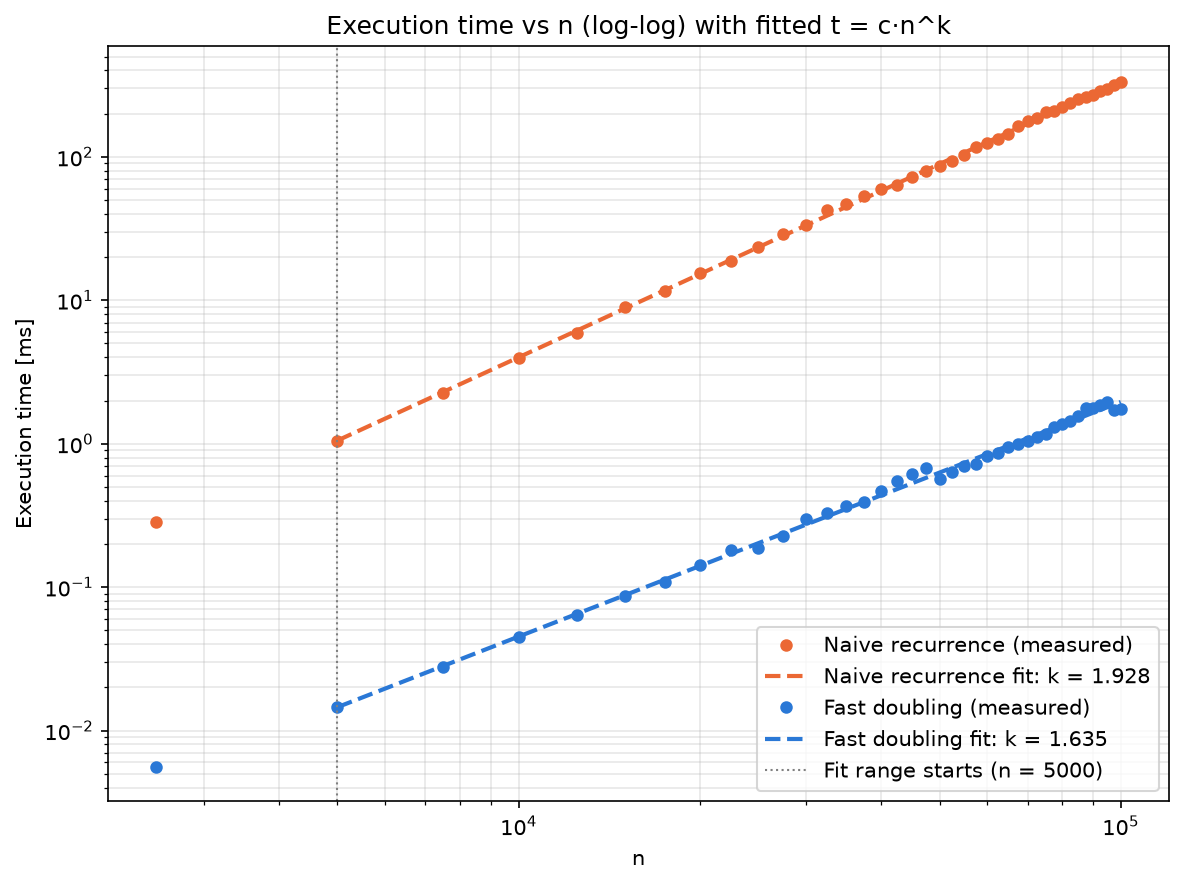
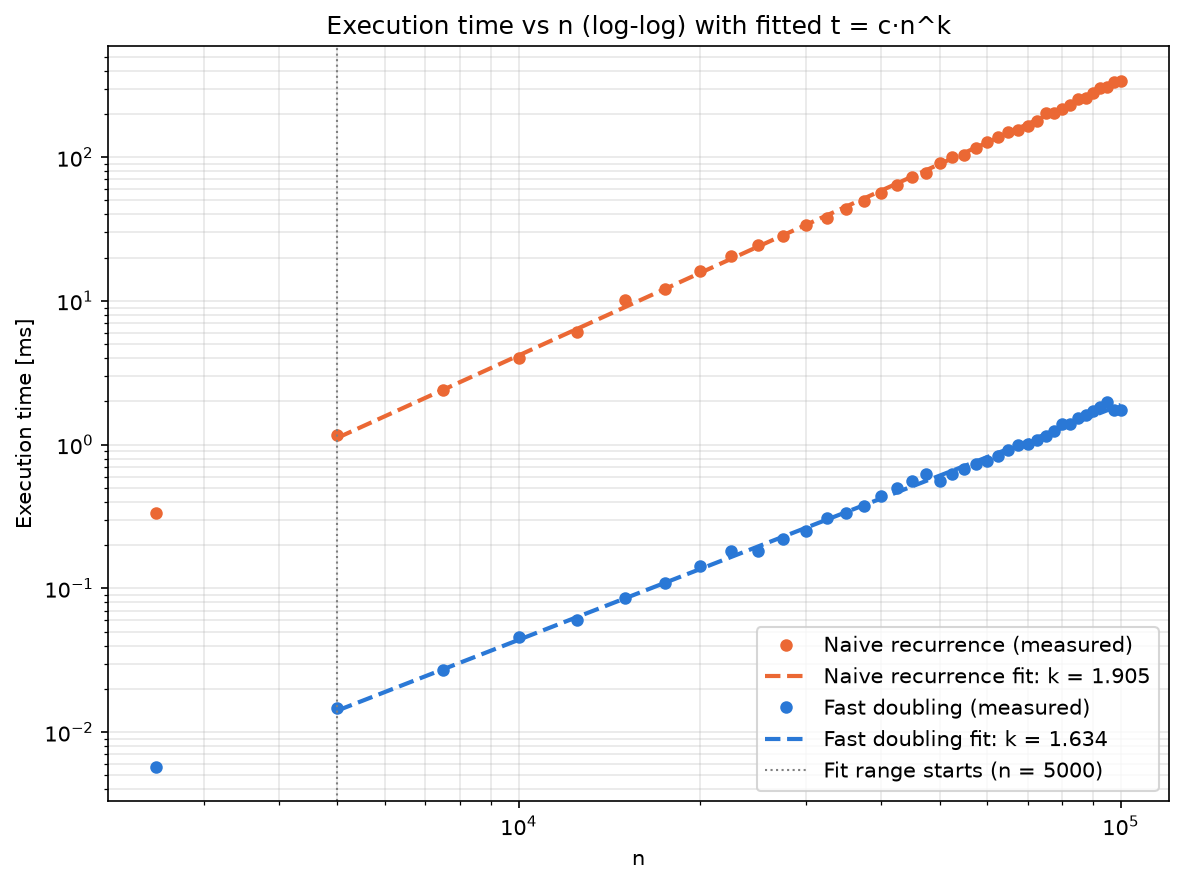
Raise TypeError for non-integer n

diff --git a/sequence.py b/sequence.py
@@ -138,10 +138,10 @@ class PowerLawFit:
 
 
 def validate_index(n: int) -> None:
-    """Raise ValueError unless n is a non-negative int."""
+    """Raise TypeError if n is not an int (bool included), ValueError if n < 0."""
     # bool is a subclass of int, but True/False are not meaningful indices.
     if not isinstance(n, int) or isinstance(n, bool):
-        raise ValueError(f"n must be an int, got {type(n).__name__}")
+        raise TypeError(f"n must be an int, got {type(n).__name__}")
     if n < 0:
         raise ValueError(f"n must be non-negative, got {n}")
 
